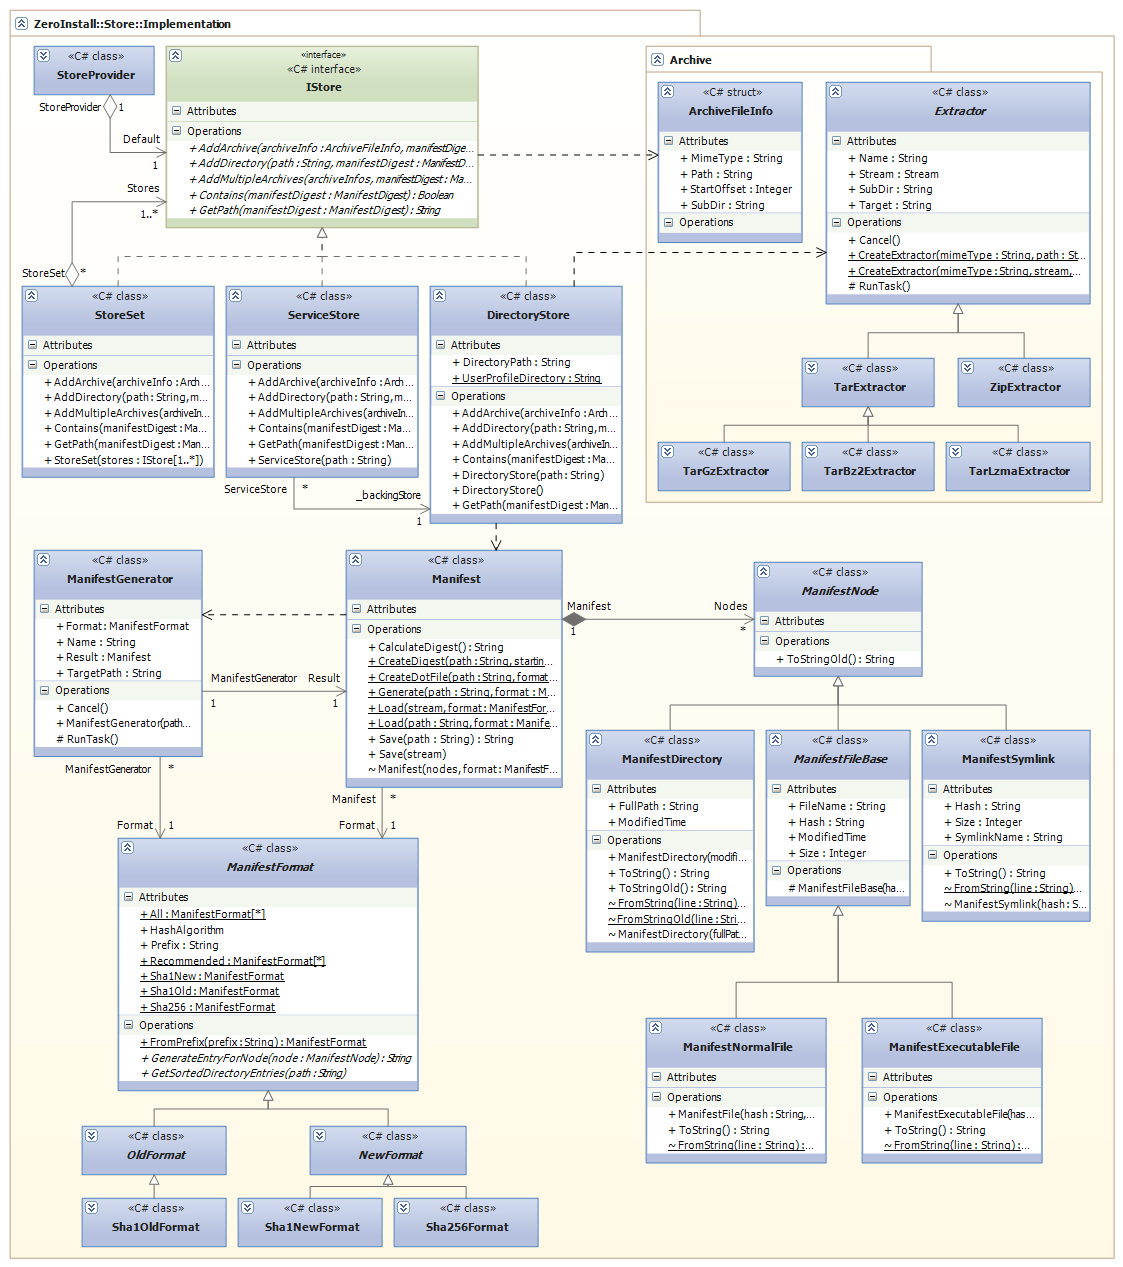
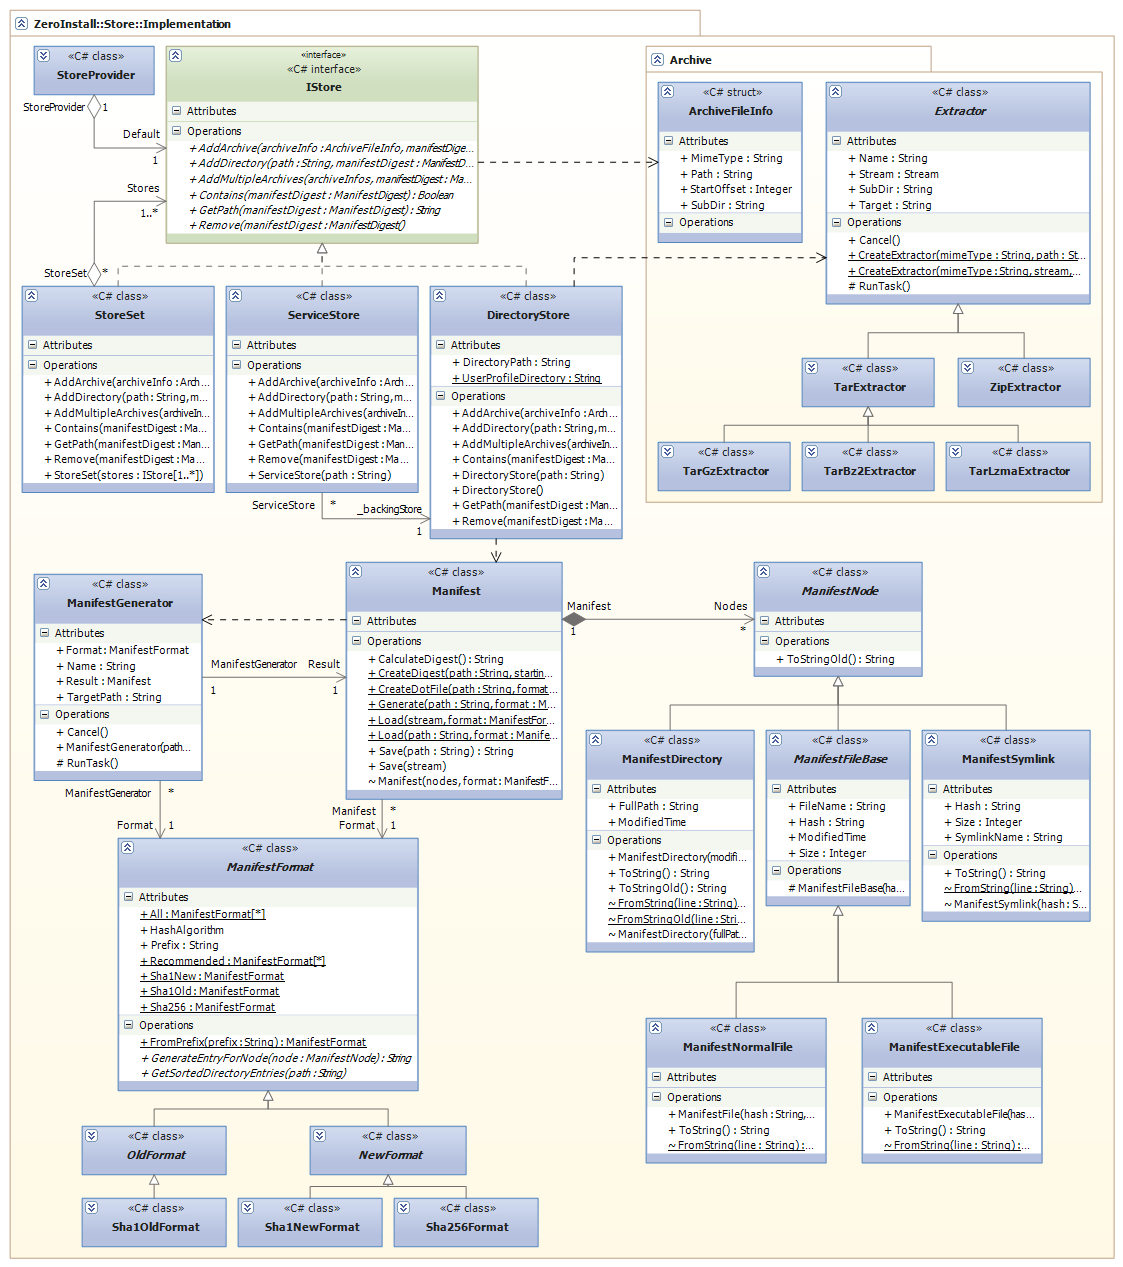
Added IStore.Remove()

diff --git a/vs/Store/Implementation/DirectoryStore.cs b/vs/Store/Implementation/DirectoryStore.cs
@@ -114,55 +114,6 @@ namespace ZeroInstall.Store.Implementation
         }
         #endregion
 
-        #region Verify and add
-        /// <summary>
-        /// Verifies the manifest digest of a directory temporarily stored inside the cache and moves it to the final location if it passes.
-        /// </summary>
-        /// <param name="tempID">The temporary identifier of the directory inside the cache.</param>
-        /// <param name="manifestDigest">The digest the <see cref="Implementation"/> is supposed to match.</param>
-        /// <param name="startingManifest">Callback to be called when a new manifest generation task (hashing files) is about to be started; may be <see langword="null"/>.</param>
-        /// <exception cref="ArgumentException">Thrown if <paramref name="manifestDigest"/> provides no hash methods.</exception>
-        /// <exception cref="DigestMismatchException">Thrown if the temporary directory doesn't match the <paramref name="manifestDigest"/>.</exception>
-        /// <exception cref="IOException">Thrown if <paramref name="tempID"/> cannot be moved or the digest cannot be calculated.</exception>
-        /// <exception cref="ImplementationAlreadyInStoreException">Thrown if there is already an <see cref="Implementation"/> with the specified <paramref name="manifestDigest"/> in the store.</exception>
-        private void VerifyAndAdd(string tempID, ManifestDigest manifestDigest, Action<IProgress> startingManifest)
-        {
-            #region Sanity checks
-            if (string.IsNullOrEmpty(tempID)) throw new ArgumentNullException("tempID");
-            #endregion
-
-            // Determine the digest method to use
-            string expectedDigest = manifestDigest.BestDigest;
-            if (string.IsNullOrEmpty(expectedDigest)) throw new ArgumentException(Resources.NoKnownDigestMethod, "manifestDigest");
-            var format = ManifestFormat.FromPrefix(StringUtils.GetLeftPartAtFirstOccurrence(expectedDigest, '='));
-
-            // Determine the source and target directories
-            string source = Path.Combine(DirectoryPath, tempID);
-            string target = Path.Combine(DirectoryPath, expectedDigest);
-
-            if (Directory.Exists(target)) throw new ImplementationAlreadyInStoreException(manifestDigest);
-
-            // Calculate the actual digest and compare it with the expected one
-            string actualDigest = Manifest.CreateDotFile(source, format, startingManifest);
-            if (actualDigest != expectedDigest) throw new DigestMismatchException(expectedDigest, actualDigest, File.ReadAllText(Path.Combine(source, ".manifest")));
-
-            // Move directory to final store destination
-            try { Directory.Move(source, target); }
-            catch (IOException)
-            {
-                if (Directory.Exists(target)) throw new ImplementationAlreadyInStoreException(manifestDigest);
-                throw;
-            }
-
-            // Prevent any further changes to the directory
-            try { FileUtils.WriteProtection(target); }
-            catch (UnauthorizedAccessException)
-            {
-                Log.Warn("Unable to enable write protection for " + target);
-            }
-        }
-        #endregion
-
         #region Add directory
         /// <inheritdoc />
         public void AddDirectory(string path, ManifestDigest manifestDigest, Action<IProgress> startingManifest)
@@ -249,6 +200,68 @@ namespace ZeroInstall.Store.Implementation
                 throw;
             }
             #endregion
+        }
+        #endregion
+        
+        #region Verify and add
+        /// <summary>
+        /// Verifies the manifest digest of a directory temporarily stored inside the cache and moves it to the final location if it passes.
+        /// </summary>
+        /// <param name="tempID">The temporary identifier of the directory inside the cache.</param>
+        /// <param name="manifestDigest">The digest the <see cref="Implementation"/> is supposed to match.</param>
+        /// <param name="startingManifest">Callback to be called when a new manifest generation task (hashing files) is about to be started; may be <see langword="null"/>.</param>
+        /// <exception cref="ArgumentException">Thrown if <paramref name="manifestDigest"/> provides no hash methods.</exception>
+        /// <exception cref="DigestMismatchException">Thrown if the temporary directory doesn't match the <paramref name="manifestDigest"/>.</exception>
+        /// <exception cref="IOException">Thrown if <paramref name="tempID"/> cannot be moved or the digest cannot be calculated.</exception>
+        /// <exception cref="ImplementationAlreadyInStoreException">Thrown if there is already an <see cref="Implementation"/> with the specified <paramref name="manifestDigest"/> in the store.</exception>
+        private void VerifyAndAdd(string tempID, ManifestDigest manifestDigest, Action<IProgress> startingManifest)
+        {
+            #region Sanity checks
+            if (string.IsNullOrEmpty(tempID)) throw new ArgumentNullException("tempID");
+            #endregion
+
+            // Determine the digest method to use
+            string expectedDigest = manifestDigest.BestDigest;
+            if (string.IsNullOrEmpty(expectedDigest)) throw new ArgumentException(Resources.NoKnownDigestMethod, "manifestDigest");
+            var format = ManifestFormat.FromPrefix(StringUtils.GetLeftPartAtFirstOccurrence(expectedDigest, '='));
+
+            // Determine the source and target directories
+            string source = Path.Combine(DirectoryPath, tempID);
+            string target = Path.Combine(DirectoryPath, expectedDigest);
+
+            if (Directory.Exists(target)) throw new ImplementationAlreadyInStoreException(manifestDigest);
+
+            // Calculate the actual digest and compare it with the expected one
+            string actualDigest = Manifest.CreateDotFile(source, format, startingManifest);
+            if (actualDigest != expectedDigest) throw new DigestMismatchException(expectedDigest, actualDigest, File.ReadAllText(Path.Combine(source, ".manifest")));
+
+            // Move directory to final store destination
+            try { Directory.Move(source, target); }
+            catch (IOException)
+            {
+                if (Directory.Exists(target)) throw new ImplementationAlreadyInStoreException(manifestDigest);
+                throw;
+            }
+
+            // Prevent any further changes to the directory
+            try { FileUtils.WriteProtection(target, true); }
+            catch (UnauthorizedAccessException)
+            {
+                Log.Warn("Unable to enable write protection for " + target);
+            }
+        }
+        #endregion
+
+        #region Remove
+        /// <inheritdoc />
+        public void Remove(ManifestDigest manifestDigest)
+        {
+            string path = GetPath(manifestDigest);
+
+            // Remove write protection
+            FileUtils.WriteProtection(path, false);
+
+            Directory.Delete(path, true);
         }
         #endregion
 

diff --git a/vs/Common/Utils/FileUtils.cs b/vs/Common/Utils/FileUtils.cs
@@ -165,13 +165,17 @@ namespace Common.Utils
         #endregion
 
         #region Permssions
+        /// <summary>Recursivley deny everyone write access to a directory.</summary>
+        private static readonly FileSystemAccessRule _denyAllWrite = new FileSystemAccessRule(new SecurityIdentifier("S-1-1-0"), FileSystemRights.Write, InheritanceFlags.ContainerInherit | InheritanceFlags.ObjectInherit, PropagationFlags.None, AccessControlType.Deny);
+
         /// <summary>
         /// Uses whatever means the current platform provides to prevent further write access to a directory (read-only attribute, ACLs, Unix octals, etc.).
         /// </summary>
         /// <remarks>May do nothing if the platform doesn't provide any known protection mechanisms.</remarks>
         /// <param name="path">The directory to protect.</param>
+        /// <param name="enable"><see langword="true"/> to apply the write protection, <see langword="false"/> to remove it again.</param>
         /// <exception cref="UnauthorizedAccessException">Thrown if you have insufficient rights to apply the write protection.</exception>
-        public static void WriteProtection(string path)
+        public static void WriteProtection(string path, bool enable)
         {
             #region Sanity checks
             if (string.IsNullOrEmpty(path)) throw new ArgumentNullException("path");
@@ -191,11 +195,14 @@ namespace Common.Utils
 
                         // Recurse into subdirectories
                         foreach (var directory in dirInfo.GetDirectories())
-                            WriteProtection(directory.FullName);
+                            WriteProtection(directory.FullName, enable);
 
-                        // Make files read-only
+                        // Make files read-only (or undo it)
                         foreach (var file in dirInfo.GetFiles())
-                            MonoUtils.MakeReadOnly(file.FullName);
+                        {
+                            if (enable) MonoUtils.MakeReadOnly(file.FullName);
+                            else MonoUtils.MakeWriteAll(file.FullName);
+                        }
                         break;
                     }
                     #region Error handling
@@ -208,17 +215,18 @@ namespace Common.Utils
                 case PlatformID.Win32Windows:
                     // Recurse into subdirectories
                     foreach (var directory in dirInfo.GetDirectories())
-                        WriteProtection(directory.FullName);
+                        WriteProtection(directory.FullName, enable);
 
-                    // Make files read-only
+                    // Make files read-only (or undo it)
                     foreach (var file in dirInfo.GetFiles())
-                        file.IsReadOnly = true;
+                        file.IsReadOnly = enable;
                     break;
 
                 case PlatformID.Win32NT:
                     // Set recursive ACL
                     DirectorySecurity security = dirInfo.GetAccessControl();
-                    security.AddAccessRule(new FileSystemAccessRule(new SecurityIdentifier("S-1-1-0"), FileSystemRights.Write, InheritanceFlags.ContainerInherit | InheritanceFlags.ObjectInherit, PropagationFlags.None, AccessControlType.Deny));
+                    if (enable) security.AddAccessRule(_denyAllWrite);
+                    else security.RemoveAccessRule(_denyAllWrite);
                     dirInfo.SetAccessControl(security);
                     break;
             }

diff --git a/vs/Store/Implementation/StoreSet.cs b/vs/Store/Implementation/StoreSet.cs
@@ -110,11 +110,13 @@ namespace ZeroInstall.Store.Implementation
                     store.AddDirectory(path, manifestDigest, startingManifest);
                     return;
                 }
+                #region Error handling
                 catch (UnauthorizedAccessException ex)
                 {
                     // Remember the first authorization error and try the next store
                     if (innerException == null) innerException = ex;
                 }
+                #endregion
             }
 
             // If we reach this, the implementation couldn't be added to any store
@@ -146,8 +148,8 @@ namespace ZeroInstall.Store.Implementation
                     // Remember the first authorization error and try the next store
                     if (innerException == null) innerException = ex;
                 }
-            }
                 #endregion
+            }
 
             // If we reach this, the implementation couldn't be added to any store
             throw new UnauthorizedAccessException(Resources.UnableToAddImplementionToStore, innerException);
@@ -181,6 +183,17 @@ namespace ZeroInstall.Store.Implementation
 
             // If we reach this, the implementation couldn't be added to any store
             throw new UnauthorizedAccessException(Resources.UnableToAddImplementionToStore, innerException);
+        }
+        #endregion
+
+        #region Remove
+        /// <inheritdoc />
+        public void Remove(ManifestDigest manifestDigest)
+        {
+            foreach (IStore store in Stores)
+            {
+                if (store.Contains(manifestDigest)) store.Remove(manifestDigest);
+            }
         }
         #endregion
     }

diff --git a/vs/Test.Backend/Store/Implementation/StoreTest.cs b/vs/Test.Backend/Store/Implementation/StoreTest.cs
@@ -92,14 +92,37 @@ namespace ZeroInstall.Store.Implementation
         {
             string package = CreateArtificialPackage();
             var digest = new ManifestDigest(Manifest.CreateDotFile(package, ManifestFormat.Sha256, null));
-            
+
             try
             {
                 using (var cache = new TemporaryDirectory())
                 {
                     var store = new DirectoryStore(cache.Path);
                     store.AddDirectory(package, digest, null);
-                    Assert.True(store.Contains(digest), "After adding, Store must contain the added package");
+                    Assert.IsTrue(store.Contains(digest), "After adding, Store must contain the added package");
+                }
+            }
+            finally
+            {
+                Directory.Delete(package, true);
+            }
+        }
+
+        [Test]
+        public void ShouldAllowToRemove()
+        {
+            string package = CreateArtificialPackage();
+            var digest = new ManifestDigest(Manifest.CreateDotFile(package, ManifestFormat.Sha256, null));
+
+            try
+            {
+                using (var cache = new TemporaryDirectory())
+                {
+                    var store = new DirectoryStore(cache.Path);
+                    store.AddDirectory(package, digest, null);
+                    Assert.IsTrue(store.Contains(digest), "After adding, Store must contain the added package");
+                    store.Remove(digest);
+                    Assert.IsFalse(store.Contains(digest), "After remove, Store may no longer contain the added package");
                 }
             }
             finally

diff --git a/vs/Store/Implementation/IStore.cs b/vs/Store/Implementation/IStore.cs
@@ -86,5 +86,15 @@ namespace ZeroInstall.Store.Implementation
         /// <exception cref="UnauthorizedAccessException">Thrown if read access to one of the archives or write access to the store is not permitted.</exception>
         /// <exception cref="DigestMismatchException">Thrown if the archives content doesn't match the <paramref name="manifestDigest"/>.</exception>
         void AddMultipleArchives(IEnumerable<ArchiveFileInfo> archiveInfos, ManifestDigest manifestDigest, Action<IProgress> startingExtraction, Action<IProgress> startingManifest);
+
+        /// <summary>
+        /// Removes a specific implementation from the cache.
+        /// </summary>
+        /// <param name="manifestDigest">The digest of the implementation to be removed.</param>
+        /// <exception cref="ArgumentException">Thrown if <paramref name="manifestDigest"/> provides no hash methods.</exception>
+        /// <exception cref="ImplementationNotFoundException">Thrown if no implementation matching <paramref name="manifestDigest"/> be found in this store.</exception>
+        /// <exception cref="IOException">Thrown if the implementation could not be deleted.</exception>
+        /// <exception cref="UnauthorizedAccessException">Thrown if write access to the store is not permitted.</exception>
+        void Remove(ManifestDigest manifestDigest);
     }
 }

diff --git a/vs/Common/Utils/MonoUtils.cs b/vs/Common/Utils/MonoUtils.cs
@@ -97,6 +97,18 @@ namespace Common.Utils
             fileSysInfo.FileAccessPermissions = fileSysInfo.FileAccessPermissions & ~AllWritePermission;
         }
 
+        /// <summary>
+        /// Sets write permissions for everyone on a file system object (file or directory).
+        /// </summary>
+        /// <param name="path">The file system object (file or directory) to make writeable by everyone.</param>
+        /// <exception cref="IOException">Thrown if the Mono libraries could not be loaded.</exception>
+        /// <exception cref="InvalidOperationException">Thrown if the underlying Unix subsystem failed to process the request (e.g. because of insufficient rights).</exception>
+        public static void MakeWriteAll(string path)
+        {
+            var fileSysInfo = UnixFileSystemInfo.GetFileSystemEntry(path);
+            fileSysInfo.FileAccessPermissions = fileSysInfo.FileAccessPermissions | AllWritePermission;
+        }
+
         /// <summary>A combination of bit flags to grant everyone executing permissions.</summary>
         private const FileAccessPermissions AllExecutePermission = FileAccessPermissions.UserExecute | FileAccessPermissions.GroupExecute | FileAccessPermissions.OtherExecute;
         

diff --git a/vs/Store/Implementation/ServiceStore.cs b/vs/Store/Implementation/ServiceStore.cs
@@ -104,5 +104,13 @@ namespace ZeroInstall.Store.Implementation
             throw new NotImplementedException();
         }
         #endregion
+
+        #region Remove
+        /// <inheritdoc />
+        public void Remove(ManifestDigest manifestDigest)
+        {
+            throw new NotImplementedException(); ;
+        }
+        #endregion
     }
 }
